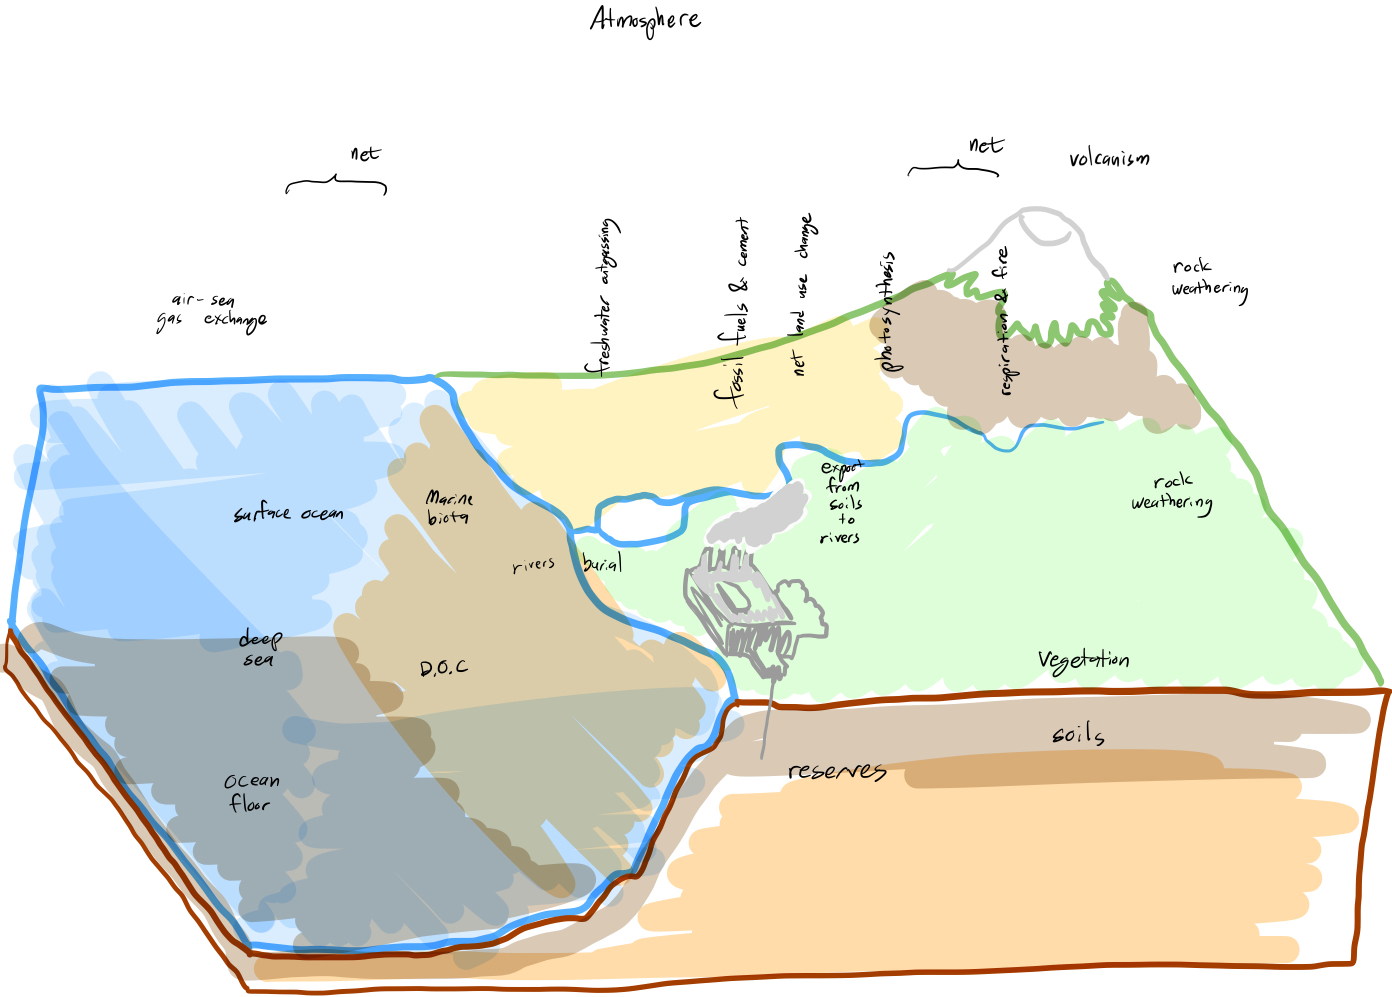
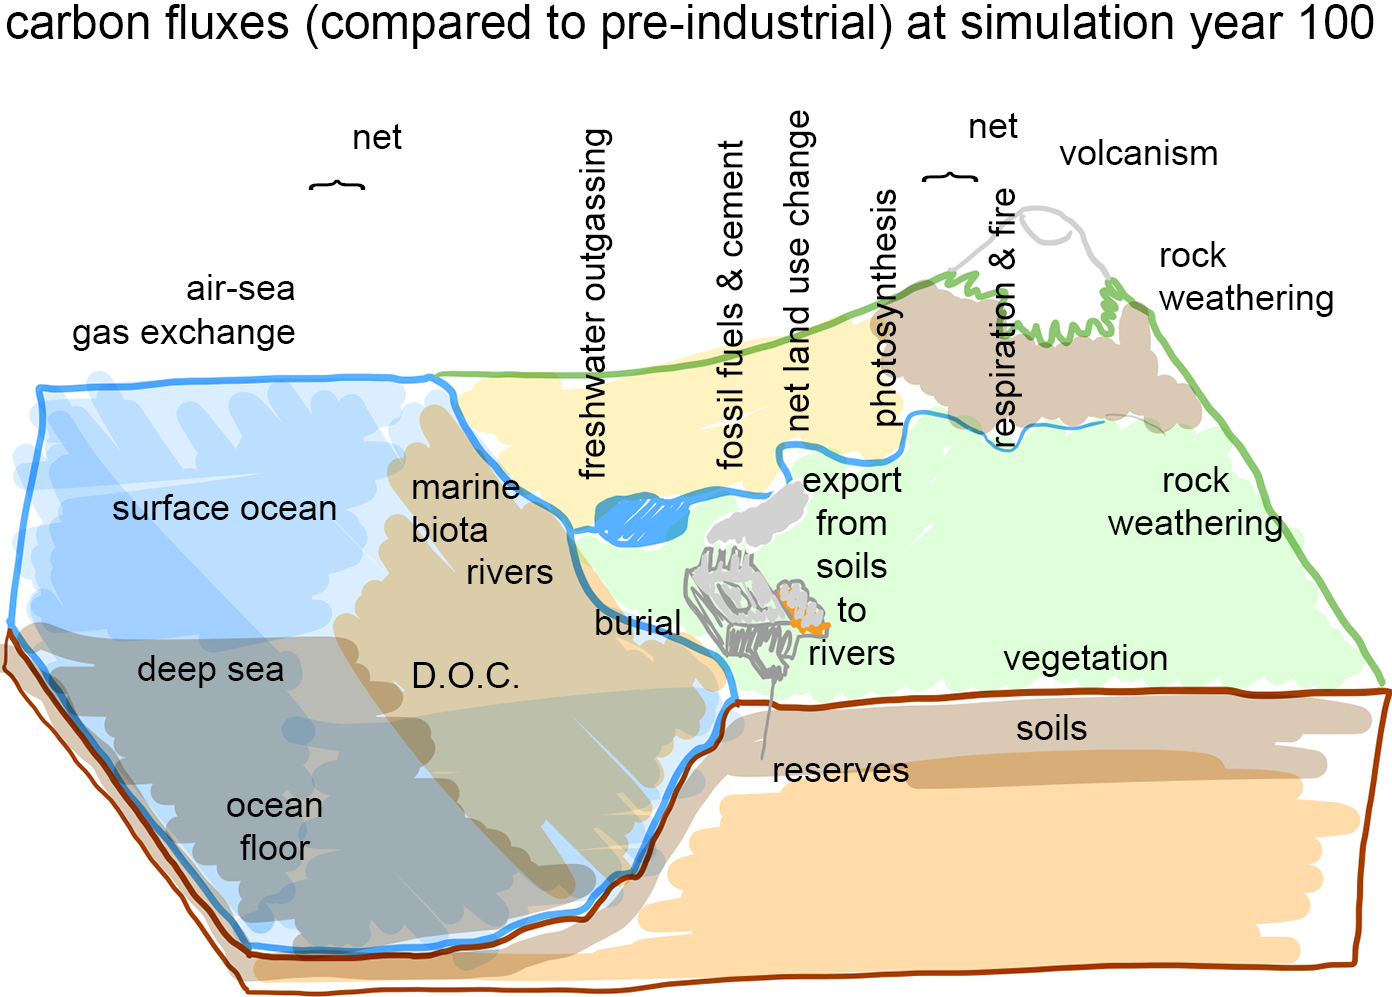
Add files via upload
fixed the fonts in the figure and the figure size

diff --git a/carbon_model.py b/carbon_model.py
@@ -353,7 +353,7 @@ def run_model(ax0, ax1, humans=True, n_iterations = 1000, buffered_up_ocn=False,
     net_up_arrow(ax1, 339, 170, -55, sfc2atm-atm2sfc, sfc2atm_n-atm2sfc_n) # net ocean -> atmos
     net_up_arrow(ax1, 951, 148, -23, veg2atm-atm2veg, veg2atm_n-atm2veg_n) # net photo/resp
     
-    ax1.set_title('Carbon fluxes compared to pre-industrial at year 200.')
+    #ax1.set_title('Carbon fluxes compared to pre-industrial at year 200.')
 
 b_update = widgets.Button(description='update')
 b_reset = widgets.Button(description='reset to defaults')
@@ -368,7 +368,7 @@ propo_radio = widgets.RadioButtons(value='constant', options=['constant', 'varia
 
 output = widgets.Output()
 with output:
-    fig = plt.figure(figsize=(12,7))
+    fig = plt.figure(figsize=(9,4))
     spec = gridspec.GridSpec(ncols=2, nrows=1, width_ratios=[1, 3], wspace=0, hspace=0)
     ax0 = fig.add_subplot(spec[0])
     ax1 = fig.add_subplot(spec[1])
